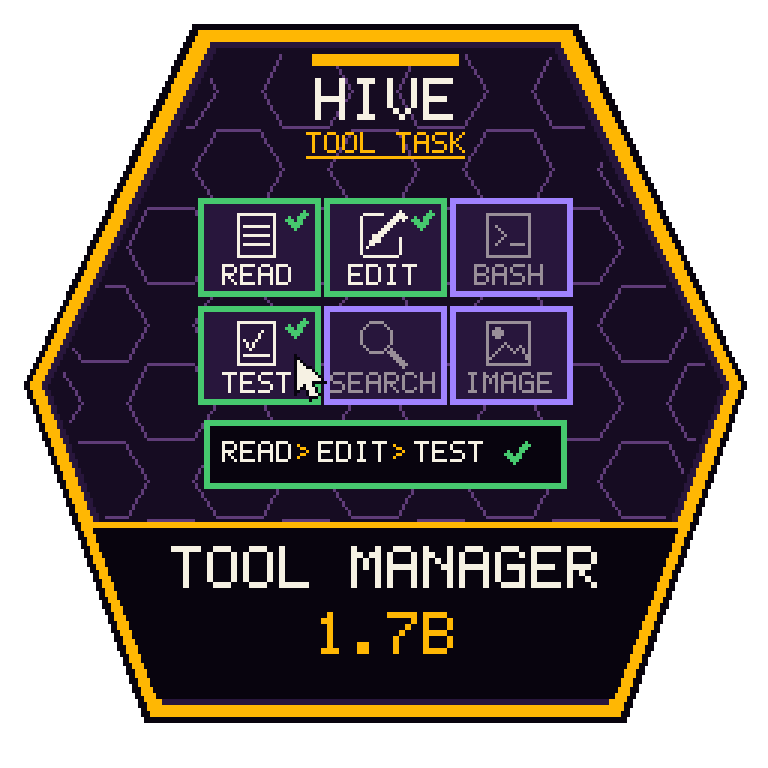
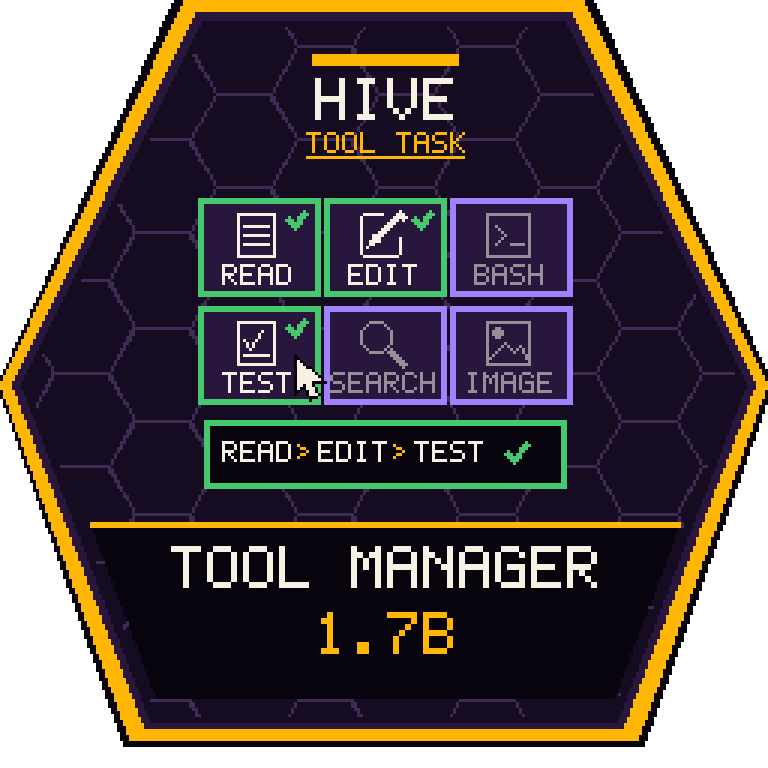
assets: unify the 256px hero honeycomb and link the Hive Series
All five cards now use the same 8%-larger badge and shared flat-top honeycomb, with role-tinted grids dimmed to match the Dispatcher. Regenerate the card assets, preview sheet, and connected banner. Add the Hive Series collection link to the roster.

diff --git a/experiments/make_hive_heroes_256.py b/experiments/make_hive_heroes_256.py
@@ -29,7 +29,7 @@ PALETTES["reader"] = {
     "bg2": (38, 26, 12),
     "accent": (255, 183, 3),       # hive honey
     "accent2": (196, 120, 45),     # warm copper for stored content
-    "hive": (105, 75, 18),          # dim honeycomb lines
+    "hive": (70, 48, 12),           # dim honeycomb lines
     "encode1": (30, 58, 138),      # deep blue reading path
     "encode2": (30, 58, 138),
     "low": (210, 60, 50),          # no-match red
@@ -46,7 +46,7 @@ PALETTES["conductor"] = {
     "bg2": (22, 30, 60),
     "accent": (255, 183, 3),
     "accent2": (78, 132, 255),
-    "hive": (105, 75, 18),
+    "hive": (40, 65, 90),
     "light": (246, 241, 227),
     "dark": (5, 8, 18),
     "glow": (78, 132, 255),
@@ -61,7 +61,7 @@ PALETTES["auditor"] = {
     "bg2": (38, 26, 14),
     "accent": (255, 183, 3),        # hive honey
     "accent2": (78, 132, 255),      # scan / active blue
-    "hive": (105, 75, 18),
+    "hive": (70, 50, 14),
     "copper": (196, 120, 45),       # model blocks
     "glass": (14, 22, 38),          # lens glass
     "low": (210, 60, 50),           # reject / over capacity
@@ -78,7 +78,7 @@ PALETTES["toolmanager"] = {
     "bg2": (40, 22, 60),
     "accent": (255, 183, 3),        # hive honey
     "accent2": (78, 132, 255),      # active blue
-    "hive": (95, 60, 120),          # dim purple honeycomb
+    "hive": (62, 42, 82),           # dim purple honeycomb
     "mid": (160, 130, 255),         # idle lavender
     "high": (70, 200, 110),         # selected / done
     "high_text": (35, 135, 70),
@@ -128,22 +128,7 @@ def label(draw, text: str, x: int, y: int, color, *, scale: int = 2,
     h.bitmap_text(draw, text, x, y, color, scale=scale, spacing=spacing)
 
 
-def _honeycomb(p, mask) -> Image.Image:
-    layer = Image.new("RGBA", (SIZE, SIZE), (0, 0, 0, 0))
-    d = ImageDraw.Draw(layer)
-    r = 15
-    hh = int(round(math.sqrt(3) * r))
-    for row, cy in enumerate(range(30, 228, hh)):
-        for col, cx in enumerate(range(12, 248, 3 * r)):
-            ox = (1.5 * r) if row % 2 else 0
-            pts = [(cx + ox + r * math.cos(math.pi / 3 * i),
-                    cy + r * math.sin(math.pi / 3 * i)) for i in range(6)]
-            d.polygon(pts, outline=(*p.get("hive", p["bg2"]), 255))
-    layer.putalpha(ImageChops.multiply(layer.getchannel("A"), mask))
-    return layer
-
-
-def _honeycomb_uniform(p, mask, r: int = 18) -> Image.Image:
+def _honeycomb(p, mask, r: int = 18) -> Image.Image:
     """A true flat-top honeycomb: every cell shares its edges."""
     layer = Image.new("RGBA", (SIZE, SIZE), (0, 0, 0, 0))
     d = ImageDraw.Draw(layer)
@@ -159,8 +144,8 @@ def _honeycomb_uniform(p, mask, r: int = 18) -> Image.Image:
     return layer
 
 
-def dispatch_hex_points(inset: int = 0):
-    """The Dispatcher badge is 8% larger than the shared 256px badge."""
+def hero_hex_points(inset: int = 0):
+    """The 256px cards share one 8%-larger badge geometry."""
     return [(128 + (x - 128) * 1.08, 128 + (y - 128) * 1.08)
             for x, y in hex_points(inset)]
 
@@ -169,7 +154,7 @@ def badge_base(name: str = "reader") -> Image.Image:
     p = PALETTES[name]
     img = Image.new("RGBA", (SIZE, SIZE), (0, 0, 0, 0))
     d = ImageDraw.Draw(img)
-    points = dispatch_hex_points if name == "dispatcher" else hex_points
+    points = hero_hex_points
     d.polygon(points(0), fill=(*p["dark"], 255))
     d.polygon(points(2), fill=(*p["accent"], 255))
     d.polygon(points(6), fill=(*p["bg2"], 255))
@@ -177,8 +162,7 @@ def badge_base(name: str = "reader") -> Image.Image:
 
     inner = Image.new("L", (SIZE, SIZE), 0)
     ImageDraw.Draw(inner).polygon(points(10), fill=255)
-    pattern = _honeycomb_uniform if name == "dispatcher" else _honeycomb
-    img.alpha_composite(pattern(p, inner))
+    img.alpha_composite(_honeycomb(p, inner))
 
     d.rectangle((104, 18, 152, 21), fill=p["accent"])
     label(d, "HIVE", 105, 26, p["light"])

diff --git a/experiments/make_hive_cluster.py b/experiments/make_hive_cluster.py
@@ -22,6 +22,8 @@ W, H = 1100, 820
 TILE = 260
 FRAMES = 100
 DURATION = 100  # ms, 10 s loop
+GIF_FRAMES = 60
+GIF_SIZE = (900, 671)
 
 BG = (8, 14, 24, 255)
 HIVE_LINE = (88, 66, 25, 255)
@@ -163,6 +165,20 @@ def compose_static() -> Image.Image:
     return img
 
 
+def save_gif(frames, path: Path) -> None:
+    picks = [round(i * (len(frames) - 1) / (GIF_FRAMES - 1))
+             for i in range(GIF_FRAMES)]
+    selected = [frames[i].convert("RGB").resize(GIF_SIZE,
+                                                Image.Resampling.LANCZOS)
+                for i in picks]
+    base = selected[0].quantize(colors=128, method=Image.Quantize.MEDIANCUT)
+    quantized = [frame.quantize(palette=base, dither=Image.Dither.NONE)
+                 for frame in selected]
+    quantized[0].save(path, save_all=True, append_images=quantized[1:],
+                      duration=round(10000 / GIF_FRAMES), loop=0,
+                      optimize=True, disposal=2)
+
+
 def main() -> int:
     animations = {name: load_animation(name) for name, _ in HEROES}
     frames = [compose(i / FRAMES, animations) for i in range(FRAMES)]
@@ -175,8 +191,11 @@ def main() -> int:
                    duration=DURATION, loop=0, quality=88, method=6)
     png = OUT / "hive-heroes.png"
     compose_static().save(png)
+    gif = OUT / "hive-heroes.gif"
+    save_gif(frames, gif)
     print(webp, webp.stat().st_size, "bytes", len(frames), "frames")
     print(png, png.stat().st_size, "bytes")
+    print(gif, gif.stat().st_size, "bytes", GIF_FRAMES, "frames")
     return 0
 
 

diff --git a/README.md b/README.md
@@ -51,6 +51,8 @@ They are role specialists, not general chat models. The controller/planner seat
 is the Conductor; the other four cover document reading, placement/critique,
 dispatch and agency. Router, face, judge and vision remain on Scion/d1/LFM3.
 
+All five are collected in the [Hive Series](https://huggingface.co/collections/SkyIsNotGreen/hive-series).
+
 ## One harness, any engine, placed per role
 
 A stack tier does not hard-code an engine. It names a **role** — in the cascade,
